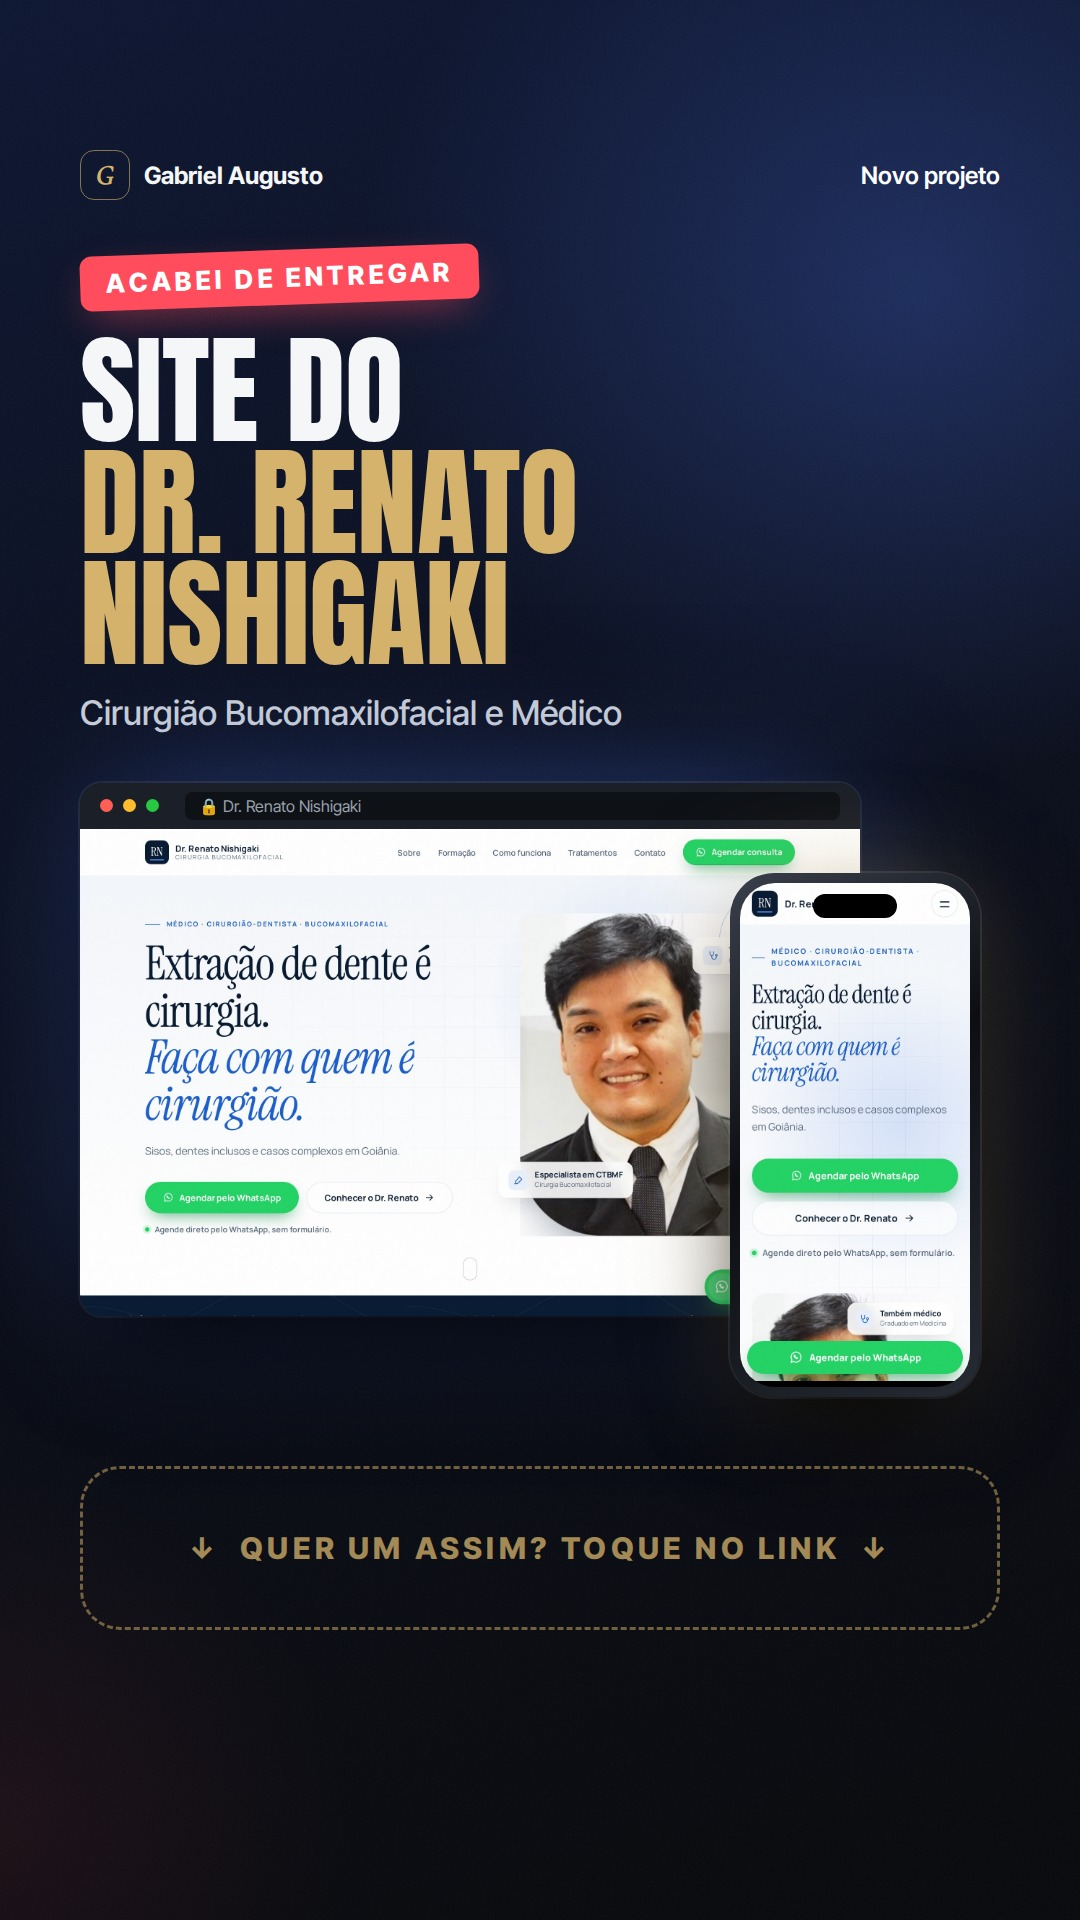
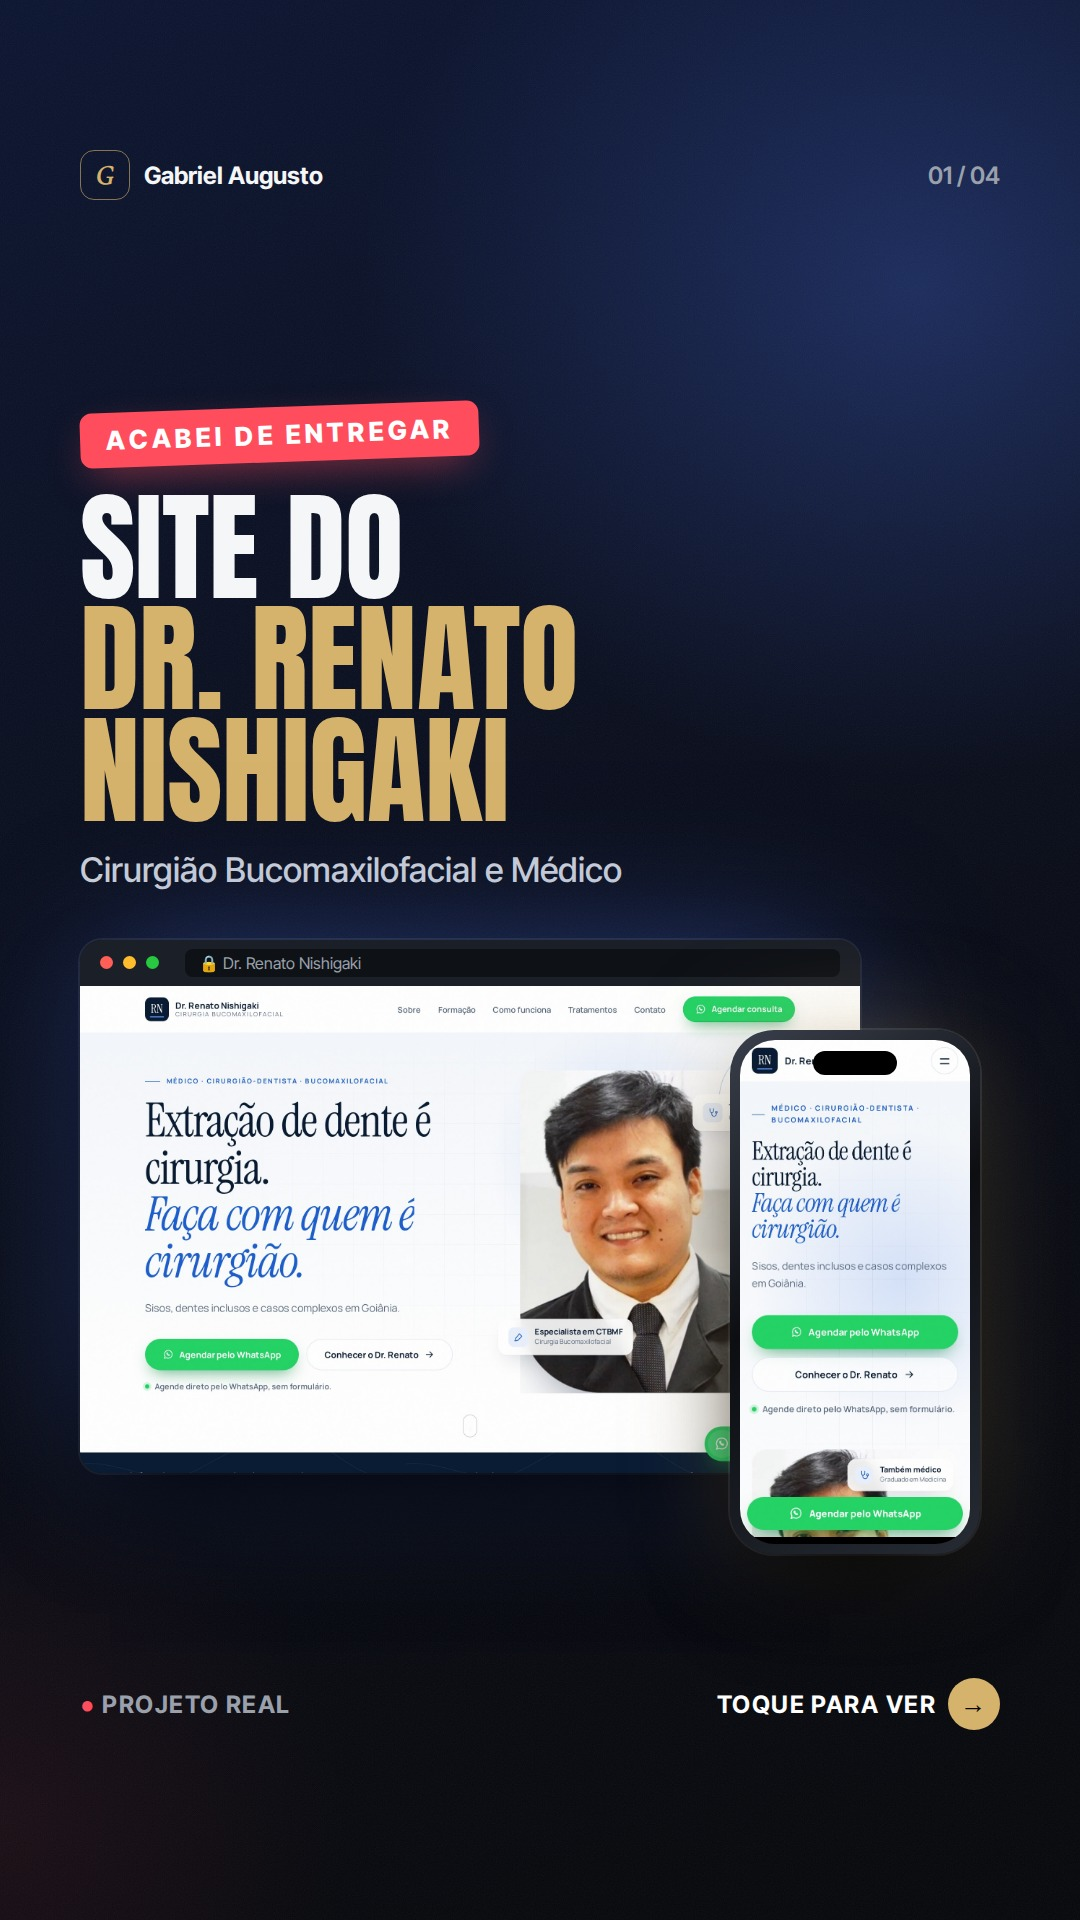
Artes de portfólio do Dr. Renato no formato story
Claude-Session: https://claude.ai/code/session_016BwLN5FTRtxwaSM4dTc4jM

diff --git a/clientes/renato-sericaku/midia/artes.html b/clientes/renato-sericaku/midia/artes.html
@@ -20,6 +20,8 @@
 .top b{display:flex;align-items:center;gap:14px;color:var(--white);font-weight:700}
 .top b i{display:grid;place-items:center;width:50px;height:50px;border-radius:14px;border:1.5px solid rgba(214,179,108,.6);font-family:Corm;font-size:28px;color:var(--gold)}
 .st .top{position:absolute;left:80px;right:80px;top:150px}
+.st{justify-content:center}
+.st .foot{position:absolute;left:80px;right:80px;bottom:190px;margin:0}
 .tag{align-self:flex-start;display:inline-flex;padding:12px 26px;border-radius:12px;background:var(--red);color:#fff;font-size:26px;font-weight:800;letter-spacing:.16em;text-transform:uppercase;transform:rotate(-2deg);box-shadow:0 14px 40px -12px rgba(255,77,94,.6)}
 .tag.line{background:none;border:2px solid rgba(214,179,108,.6);color:var(--gold);box-shadow:none;transform:none}
 .H{font-family:Anton;text-transform:uppercase;font-weight:400;font-size:110px;line-height:.93;margin-top:30px}
@@ -47,21 +49,22 @@
 .link{height:190px;border:3px dashed rgba(214,179,108,.5);border-radius:40px;display:grid;place-items:center;font-size:30px;font-weight:800;letter-spacing:.14em;text-transform:uppercase;color:rgba(214,179,108,.75)}
 </style></head><body>
 
-<!-- ===== FEED · carrossel 1: capa ===== -->
-<section class="a f bg-blue" data-n="feed-01">
+<!-- ===== STORY 01: capa ===== -->
+
+<section class="a st bg-blue" data-n="01">
  <div class="top"><b><i>G</i>Gabriel Augusto</b><span>01 / 04</span></div>
- <span class="tag" style="margin-top:44px">Novo projeto entregue</span>
- <h2 class="H">Site para o<br><span class="g">Dr. Renato Nishigaki</span></h2>
- <p class="sub">Cirurgião Bucomaxilofacial e Médico · Goiânia</p>
- <div style="position:relative;margin-top:50px;width:820px">
+ <span class="tag">Acabei de entregar</span>
+ <h2 class="H" style="font-size:120px">Site do<br><span class="g">Dr. Renato<br>Nishigaki</span></h2>
+ <p class="sub">Cirurgião Bucomaxilofacial e Médico</p>
+ <div style="position:relative;margin-top:50px;width:780px">
   <div class="win"><div class="bar"><i style="background:#ff5f57"></i><i style="background:#febc2e"></i><i style="background:#28c840"></i><span>🔒 Dr. Renato Nishigaki</span></div><img src="novo-desktop-topo.jpg"></div>
-  <div class="phone" style="position:absolute;right:-110px;top:120px;width:250px;height:524px;border-radius:44px;padding:10px"><div style="border-radius:35px"><img src="novo-cel-topo.jpg"></div></div></div>
- <div class="foot"><span>Projeto real</span><span>Arraste</span></div></section>
+  <div class="phone" style="position:absolute;right:-120px;top:90px;width:250px;height:524px;border-radius:44px;padding:10px"><div style="border-radius:35px"><img src="novo-cel-topo.jpg"></div></div></div>
+ <div class="foot"><span>Projeto real</span><span>Toque para ver</span></div></section>
 
 <!-- ===== FEED 2: o que foi feito ===== -->
-<section class="a f bg-ink" data-n="feed-02">
+<section class="a st bg-ink" data-n="02">
  <div class="top"><b><i>G</i>Gabriel Augusto</b><span>02 / 04</span></div>
- <h2 class="H" style="font-size:96px;margin-top:50px">O que eu<br><span class="g">criei pra ele</span></h2>
+ <span class="tag">Por dentro do projeto</span><h2 class="H" style="font-size:120px">O que eu<br><span class="g">criei pra ele</span></h2>
  <div style="display:flex;gap:40px;align-items:center;margin-top:46px">
   <div class="feat" style="flex:1">
    <div><i>RN</i><span><b>Identidade visual</b><small>monograma e paleta em azul</small></span></div>
@@ -69,38 +72,29 @@
    <div><i class="r">★</i><span><b>Autoridade real</b><small>formação e certificado</small></span></div>
    <div><i>✦</i><span><b>Animações</b><small>elegantes e interativas</small></span></div></div>
   <div class="phone" style="flex-shrink:0"><div><img src="novo-cel-sobre.jpg"></div></div></div>
- <div class="foot"><span>Detalhes</span><span>Arraste</span></div></section>
+ <div class="foot"><span>Detalhes</span><span>Continua</span></div></section>
 
 <!-- ===== FEED 3: telas no celular ===== -->
-<section class="a f bg-grid" data-n="feed-03">
+<section class="a st bg-grid" data-n="03">
  <div class="top"><b><i>G</i>Gabriel Augusto</b><span>03 / 04</span></div>
- <h2 class="H" style="font-size:96px;margin-top:50px">Perfeito<br><span class="g">no celular</span></h2>
- <div style="position:relative;height:720px;margin-top:40px">
+ <span class="tag">Mobile</span><h2 class="H" style="font-size:120px">Perfeito<br><span class="g">no celular</span></h2>
+ <div style="position:relative;height:780px;margin-top:70px">
   <div class="phone" style="position:absolute;left:0;top:70px;transform:rotate(-6deg)"><div><img src="novo-cel-topo.jpg"></div></div>
   <div class="phone" style="position:absolute;left:310px;top:0;z-index:2"><div><img src="novo-cel-formacao.jpg"></div></div>
   <div class="phone" style="position:absolute;right:0;top:70px;transform:rotate(6deg)"><div><img src="novo-cel-tratamentos.jpg"></div></div>
   <div class="chip w" style="left:50%;bottom:-6px;transform:translateX(-50%)"><em>●</em> Botão fixo de WhatsApp</div></div>
- <div class="foot"><span>Mobile</span><span>Arraste</span></div></section>
+ <div class="foot"><span>Mobile</span><span>Continua</span></div></section>
 
 <!-- ===== FEED 4: CTA ===== -->
-<section class="a f bg-gold" data-n="feed-04">
+<section class="a st bg-gold" data-n="04">
  <div class="top"><b><i>G</i>Gabriel Augusto</b><span>04 / 04</span></div>
  <div style="flex:1;display:flex;flex-direction:column;justify-content:center;align-items:center;text-align:center">
   <span class="tag" style="align-self:center">Sua vez</span>
   <h2 class="H" style="font-size:150px">Quer um<br><span class="g">assim?</span></h2>
   <p class="sub" style="max-width:800px">Site profissional, rápido e pensado pra <b>trazer cliente pro seu WhatsApp.</b></p>
-  <div style="margin-top:56px"><span class="btn">Link na bio ↑</span></div>
-  <p class="sub" style="font-size:28px;margin-top:30px">A partir de <b>R$ 300</b> · entrega a partir de 2 dias</p></div>
- <div class="foot"><span>@euaugusto_oliv</span><span>Me chama</span></div></section>
+  
+  <p class="sub" style="font-size:30px;margin-top:30px">A partir de <b>R$ 300</b> · entrega a partir de 2 dias</p>
+  <div class="link" style="width:100%;margin-top:70px">↓ &nbsp;Toque no link&nbsp; ↓</div></div>
+ <div class="foot"><span>Sua vez</span><span>Me chama</span></div></section>
 
-<!-- ===== STORY ===== -->
-<section class="a st bg-blue" data-n="story-01">
- <div class="top"><b><i>G</i>Gabriel Augusto</b><span style="color:#fff">Novo projeto</span></div>
- <span class="tag">Acabei de entregar</span>
- <h2 class="H" style="font-size:120px">Site do<br><span class="g">Dr. Renato<br>Nishigaki</span></h2>
- <p class="sub">Cirurgião Bucomaxilofacial e Médico</p>
- <div style="position:relative;margin-top:50px;width:780px">
-  <div class="win"><div class="bar"><i style="background:#ff5f57"></i><i style="background:#febc2e"></i><i style="background:#28c840"></i><span>🔒 Dr. Renato Nishigaki</span></div><img src="novo-desktop-topo.jpg"></div>
-  <div class="phone" style="position:absolute;right:-120px;top:90px;width:250px;height:524px;border-radius:44px;padding:10px"><div style="border-radius:35px"><img src="novo-cel-topo.jpg"></div></div></div>
- <div class="link" style="margin-top:150px">↓ &nbsp;Quer um assim? Toque no link&nbsp; ↓</div></section>
 </body></html>

diff --git a/clientes/renato-sericaku/midia/render.js b/clientes/renato-sericaku/midia/render.js
@@ -3,5 +3,5 @@ const { chromium } = require(process.env.PWPATH); const path = require('path');
 (async () => { const b = await chromium.launch(); const p = await b.newPage({ viewport: { width: 1080, height: 1920 } });
   await p.goto('file://' + path.join(__dirname, 'artes.html')); await p.evaluate(() => document.fonts.ready);
   for (const s of await p.$$('section.a')) { const n = await s.getAttribute('data-n'); await s.scrollIntoViewIfNeeded();
-    await s.screenshot({ path: path.join(__dirname, 'portfolio-renato-' + n + '.jpg'), type: 'jpeg', quality: 92 }); }
+    await s.screenshot({ path: path.join(__dirname, 'portfolio-renato-story-' + n + '.jpg'), type: 'jpeg', quality: 92 }); }
   await b.close(); })();

diff --git a/gabriel-augusto/shorts/roteiros/portfolio-renato-texto.md b/gabriel-augusto/shorts/roteiros/portfolio-renato-texto.md
@@ -7,7 +7,7 @@
 4. E cada tratamento tem um botão que leva direto pro WhatsApp dele, com a mensagem pronta.
 5. Quer um site assim pro seu negócio? Entra no meu perfil e clica no link.
 
-## Legenda do post (carrossel do feed)
+## Legenda (se quiser postar também no feed)
 Novo projeto entregue: site do Dr. Renato Nishigaki 🦷
 
 Cirurgião bucomaxilofacial e médico aqui de Goiânia, com foco em extração de dentes.
@@ -24,6 +24,5 @@ Quer um site assim pro seu negócio? 🔗 Link na bio.
 
 ## Onde usar cada arquivo
 - `portfolio-renato.mp4` → Reels/feed e destaque **Sites** (use a capa `portfolio-renato-capa.jpg`)
-- `clientes/renato-sericaku/midia/portfolio-renato-feed-01..04.jpg` (1080x1350) → carrossel do feed, nessa ordem
-- `clientes/renato-sericaku/midia/portfolio-renato-story-01.jpg` (1080x1920) → story, com o sticker de link sobre a área tracejada
+- `clientes/renato-sericaku/midia/portfolio-renato-story-01..04.jpg` (1080x1920) → sequência de stories, nessa ordem; no 04, cole o sticker de link sobre a área tracejada. Depois adicione ao destaque **Sites**.
 - Marque o @ do Dr. Renato no post e no story (ele reposta e o seu perfil aparece pro público dele).
